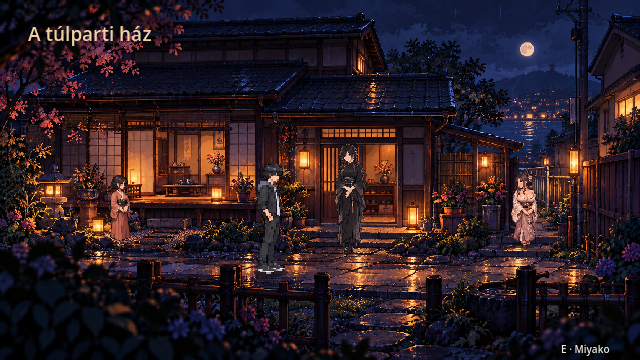
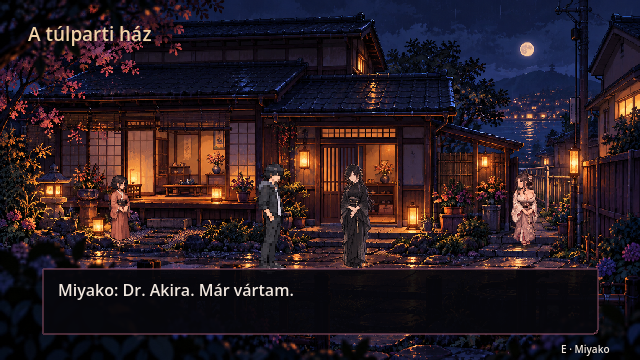
Restore post-intro dialogue and ground cast behind scenery

Changed region(s): [[0.0625, 0.3972, 0.9375, 0.9472]]

diff --git a/docs/DIALOGUE_GROUNDING_FIX_REVIEW.md b/docs/DIALOGUE_GROUNDING_FIX_REVIEW.md
@@ -1,0 +1,14 @@
+# Dialogue and grounding correction — 2026-09-30
+
+The natural intro handoff had left dialogue.modulate.a at zero. finish_intro now restores dialogue and narration opacity for both natural completion and skip. Regression checks verify actual visibility/opacity during Miyako's line rather than checking text content alone.
+
+Miyako is now a foot-anchored world actor under the same Y-sorted cast as Akira. Each of the four existing atlas poses has its opaque foot contact measured and aligned at (352,274), with a contact shadow and foot collision. No artwork or character design was changed. Her visibility and collision are limited to the house.
+
+The street's walk limits use surveyed road edges with scaled sprite clearance. Bridge contact points sit farther inside the deck. The house's source-aligned foreground fence/posts now occlude the cast; the forecourt lane remains behind them. Existing bridge occlusion remains.
+
+Validation:
+- Full gate_flow regression passed: natural intro, eight skip positions, visible post-intro dialogue, bridge/house progression and Miyako interaction.
+- Grounding regression passed: street edges, all Miyako pose pivots, movement collision, house foreground, house-only visibility and bridge traversal positions.
+- Inspected runtime captures at street edges, bridge posts, house posts and the greeting. Captures: review/grounding_*.png and review/miyako_after_exploration_REVIEW.png.
+- Environment certificate-store diagnostic remains unrelated to rendering; art remains REVIEW.
+

diff --git a/README.md b/README.md
@@ -1,8 +1,9 @@
 # Tsukimori — Zárt Világ
 
-## Opening + Village Street — 2026-09-28
+## Opening + Village Street — 2026-09-30
 
 F5 starts the new 70-second bus/memory/forest/gate opening. Movement unlocks at Village Street; the bridge and Miyako follow through player-controlled exploration. E at the route edge continues, E near Miyako starts her greeting. ESC skips only the pre-control intro to the gate. Side-view levels remain supported. Current details: [Cinematic v2 and Space fix REVIEW](docs/CINEMATIC_V2_REVIEW.md).
+Latest correction: [Post-intro text, grounded Miyako and scenery boundaries](docs/DIALOGUE_GROUNDING_FIX_REVIEW.md).
 WASD/arrows: move. Enter/Space: reveal or advance text without seeking the film. Esc: confirm intro skip.
 E: observe a nearby resident. F1: show/hide controls.
 
